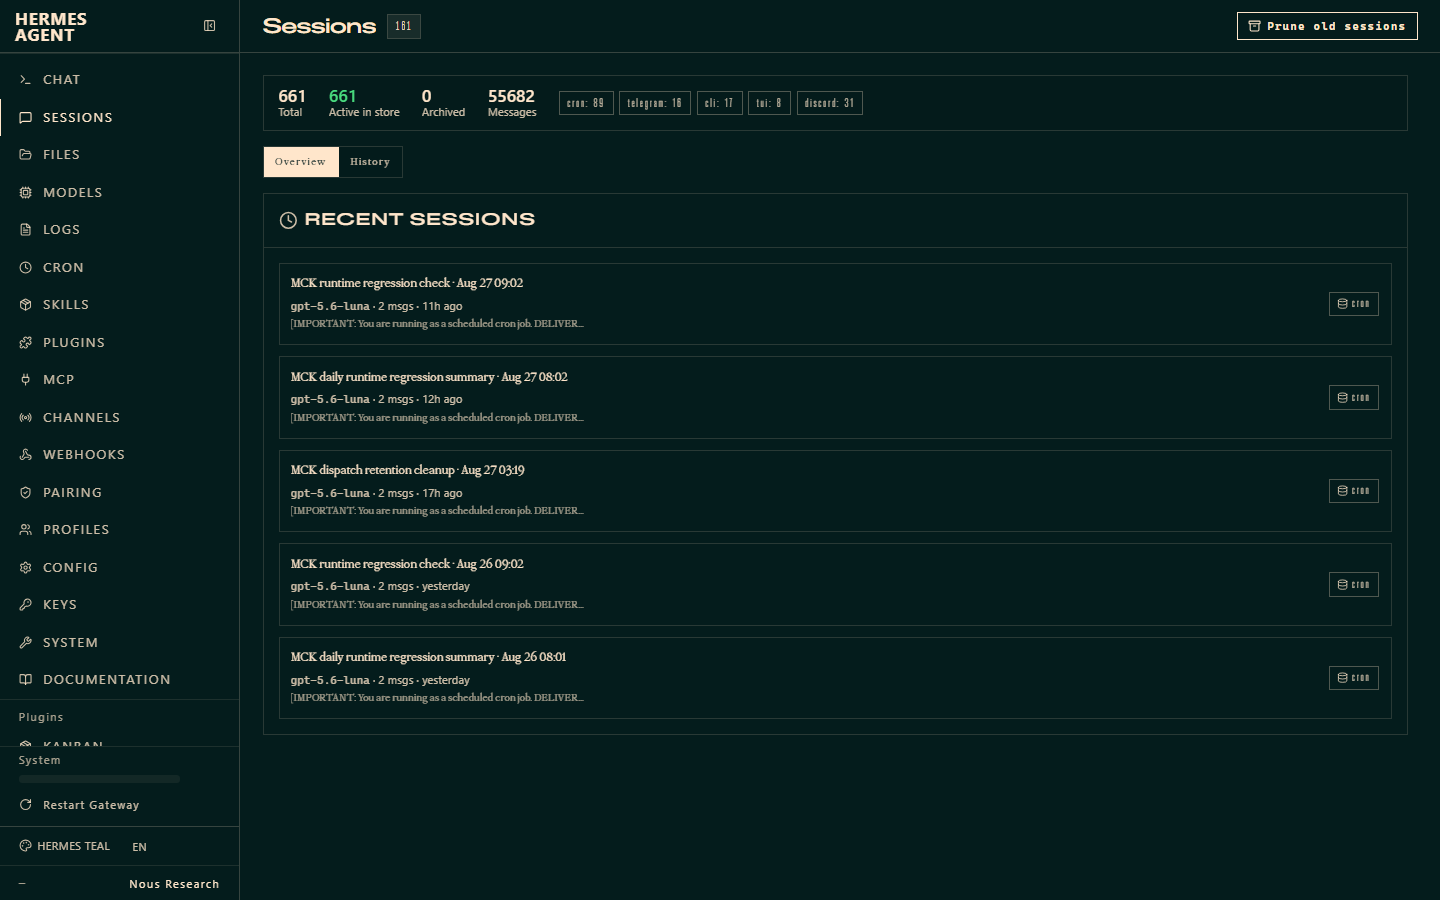
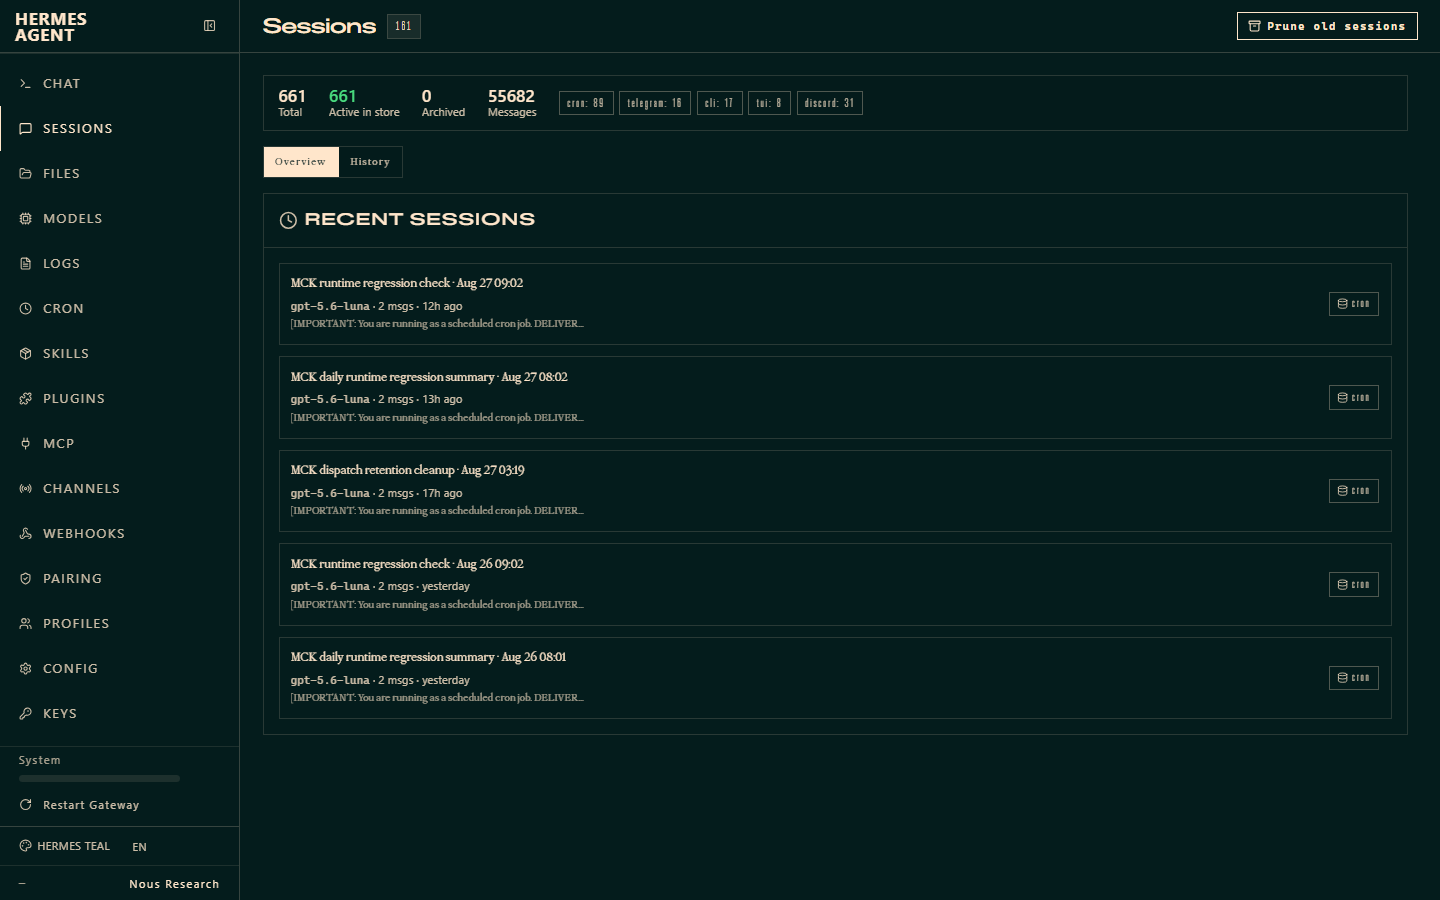
docs(web): restamp :9119 to 3bea4c481 and recapture 15/21
Loopback /api/auth/me 401 is gone. Skills switches and nav floors are live. Still not 19-21 and not Awwwards 8+.

Changed region(s): [[0.0, 0.3733, 0.125, 0.8089], [0.0, 0.1244, 0.0938, 0.3422], [0.0312, 0.0622, 0.0625, 0.0933]]

diff --git a/docs/frontend-sota-gauntlet-2026-08-27/scorecard.md b/docs/frontend-sota-gauntlet-2026-08-27/scorecard.md
@@ -1,12 +1,12 @@
-# Frontend SOTA Gauntlet — Scorecard (hermes-web, system-body recapture)
+# Frontend SOTA Gauntlet — Scorecard (hermes-web, 401 follow-up)
 
 Subject: **hermes-web** (`web/` in `iMelki/hermes-agent`, served at `http://127.0.0.1:9119`)
-Date: 2026-08-27 (system-body recapture)
+Date: 2026-08-27 (loopback `/api/auth/me` skip + hit-target floors)
 Workflow: `frontend-sota-gauntlet` (`agent-settings/shared/prompts/frontend-sota-gauntlet.md`)
-Previous score: **14 / 21** on served `3a0f08fbeb9195217b41afa12be204f1b623bfb1` / `index-57itTrlN.js`.
-Scored served artifact: **`index-3A4qXw6p.js`** (1,972,061 B,
-`sha256:29daf7e3ef4a5c7041f49935a965a2e5e84bc87b5b2d0a8ee23313be3ea9c375`)
-Audited tip: **9faae85d9732a241c8ac67d5e11908bcfd3bd29a**
+Previous score: **15 / 21** on served `9faae85d9732a241c8ac67d5e11908bcfd3bd29a` / `index-3A4qXw6p.js`.
+Scored served artifact: **`index-CAurVnFC.js`** (1,972,319 B,
+`sha256:99c71e0b32af84b36bd21bf93bd01987c828f3cb3d4a430ab7617137e16a1498`)
+Audited tip: **3bea4c4819062f0a7c491a20f6cae13144778422**
 Harness: Playwright 1.59.1, isolated loopback, `waitUntil: commit`, never
 `networkidle`, 1440×900 + 390×844, reduced-motion pair
 Cost: **$0.00**, 0 paid provider calls, 0 generated assets
@@ -22,11 +22,11 @@ stays **no 8+** (6.0 carried / UNSCORABLE for award claims). Do not quote 19–2
 | # | Area | Score | Why |
 |---|---|---:|---|
 | 1 | Visual direction | **2** | Same Hermes Teal / Nous chrome. `h1` still **18.75px** vs body **15px**. Still not memorable at the pixel. |
-| 2 | UX clarity | **3** | `/system` now has an operator-readable body: honest API-failure notice, Retry, credential form, and Operations. Still held by a 17-item flat nav and a 401 on every captured surface. |
-| 3 | Motion / interactivity | **1** | No signature beat. `/sessions` 1440 ran `pulse` (1). Reduced-motion this capture ran `pulse` (1), not `spin`. Skills 1440 still had `spin` with motion allowed. |
-| 4 | Technical quality | **2** | Identity-matched restamp: served JS + disk source/runtime hashes agree. Held by a 401 on all five surfaces. Raw `GET /api/status` is 200 without the SPA session header; the dashboard fetch path still 401s. No auth bypass and no new unauthenticated write tool. |
-| 5 | Responsiveness | **2** | **0px** page overflow at 1440 and 390; mobile restacks. Skills under-24px targets improved **222/251 → 205/250** (category rows now `min-h-[24px]`). Remaining worst cluster is 34×19 unlabeled switches. Nav links still **239×38**. |
-| 6 | Verification | **2** | Browser shots, console, provenance self-test + negative control, before/after digest stability. No repo test suite for the page and no canvas-nonblank proof. |
+| 2 | UX clarity | **3** | `/system` body stays operator-readable. Console 401s are gone on every captured surface. Still a 17-item flat nav. |
+| 3 | Motion / interactivity | **1** | No signature beat. `/sessions` 1440 ran `pulse` (1) with motion allowed. Reduced-motion `/sessions` ran **0** animations (`pulse` gated). |
+| 4 | Technical quality | **2** | Identity-matched restamp: served JS + disk source/runtime hashes agree. SPA 401 was the expected loopback `/api/auth/me` probe, not a missing session header. Headerless `GET /api/status` 200 is the public liveness contract. No auth bypass and no new unauthenticated write tool. `/system` still shows the honest load-failure notice (1046 chars) for non-401 failures. |
+| 5 | Responsiveness | **2** | **0px** page overflow at 1440 and 390. Skills under-24px **205/250 → 3/251** (switches cleared the 24px floor). Nav links **239×38 → 239×45**. Remaining under-24 cluster is chrome: theme 23px, language 23px, Nous footer 15px. |
+| 6 | Verification | **2** | Browser shots, console, 401-path logging, provenance self-test + negative control, before/after digest stability. No repo test suite for the page and no canvas-nonblank proof. |
 | 7 | Complexity fit | **3** | Operator dashboard, honest empty/error state, no GSAP/Canvas/Framer novelty on this cockpit page. |
 
 ---
@@ -36,14 +36,14 @@ stays **no 8+** (6.0 carried / UNSCORABLE for award claims). Do not quote 19–2
 | Surface | Value |
 |---|---|
 | Served URL | `http://127.0.0.1:9119` HTTP **200**, no login redirect |
-| Entry HTML (token-stripped) | `sha256:0279fd0791583562735ec9136e2e0ced3fc20b06c0705956c6a7918205ea0b60` (511 B) |
-| JS | `/assets/index-3A4qXw6p.js` 1,972,061 B `29daf7e3…ea9c375` |
-| CSS | `/assets/index-Dh5-37we.css` 114,327 B `454eb30f…165aa3` |
-| Source `git log -1` | 9faae85d9732a241c8ac67d5e11908bcfd3bd29a |
+| Entry HTML (token-stripped) | `sha256:1bb0c5e2f19937c0f2956a0d950e023070f5a620197736786a378e9ddaa8e6e0` (511 B) |
+| JS | `/assets/index-CAurVnFC.js` 1,972,319 B `99c71e0b…16a1498` |
+| CSS | `/assets/index-BBNSWGzv.css` 114,638 B `ca240640…998ddc` |
+| Source `git log -1` | 3bea4c4819062f0a7c491a20f6cae13144778422 |
 | Runtime checkout | `%LOCALAPPDATA%\Hermes\hermes-agent` detached via `imelki` only |
 | Disk `web_dist` JS | **byte-identical** to served |
 | `/api/status` | HTTP **200** without SPA session header, `version` 0.18.2 (no git SHA field) |
-| `/health` | SPA fallback HTML **200**, same `index-3A4qXw6p.js` |
+| `/health` | SPA fallback HTML **200**, same `index-CAurVnFC.js` |
 
 The launcher session token was stripped before hashing. No new operator login
 was required (`sessionTokenStripped: true`). NousResearch `origin` on the
@@ -55,22 +55,37 @@ runtime checkout was **not** fetched, pushed, or mutated.
 
 | Shot | Route | Viewport | Settled | h1 | Overflow | under24 | Console |
 |---|---|---|---|---|---:|---:|---|
-| `shots/sessions-1440.png` | `/sessions` | 1440×900 | yes | Sessions 18.75px | 0 | 3/27 | 401 |
-| `shots/skills-1440.png` | `/skills` | 1440×900 | yes | Skills 18.75px | 0 | 205/250 | 401 |
-| `shots/system-1440.png` | `/system` | 1440×900 | yes | System 18.75px | 0 | 4/43 | 401 |
-| `shots/sessions-390.png` | `/sessions` | 390×844 | yes | Sessions 18.75px | 0 | 3/28 | 401 |
-| `shots/sessions-1440-rm.png` | `/sessions` | 1440×900 RM | yes | Sessions 18.75px | 0 | 3/27 | 401 |
+| `shots/sessions-1440.png` | `/sessions` | 1440×900 | yes | Sessions 18.75px | 0 | 3/27 | none |
+| `shots/skills-1440.png` | `/skills` | 1440×900 | yes | Skills 18.75px | 0 | 3/251 | none |
+| `shots/system-1440.png` | `/system` | 1440×900 | yes | System 18.75px | 0 | 4/43 | none |
+| `shots/sessions-390.png` | `/sessions` | 390×844 | yes | Sessions 18.75px | 0 | 3/28 | none |
+| `shots/sessions-1440-rm.png` | `/sessions` | 1440×900 RM | yes | Sessions 18.75px | 0 | 3/27 | none |
 
-`/system` body is no longer blank: **1046** text chars (was **199** chrome-only).
-The shot shows the honest failure notice plus Operations. It does **not** invent
-host or gateway numbers.
+`/system` body remains **1046** text chars: honest failure notice plus Operations.
+It does **not** invent host or gateway numbers. Those remaining failures are
+not the loopback session-token 401.
+
+---
+
+## 401 research (fixed, not parked)
+
+Headerless `GET /api/status` 200 is **by design** (`PUBLIC_API_PATHS`).
+Protected APIs (`/api/sessions`, `/api/skills`, `/api/system/stats`) return
+**200** with the documented `X-Hermes-Session-Token` from
+`window.__HERMES_SESSION_TOKEN__`, and **401** without it. `/api/auth/me`
+returns **401 even with a valid loopback token** because there is no OAuth
+`request.state.session`. AuthWidget was calling that probe on every route.
+
+Fix: skip `getAuthMe()` when `window.__HERMES_AUTH_REQUIRED__` is not true.
+That is the documented injected flag. No password typed. No cookie bypass.
+No unauthenticated write tool.
 
 ---
 
 ## What this does and does not unlock
 
-**Unlocked.** `:9119` is attributable to `index-3A4qXw6p.js`. `/system` has a
-real operator-readable body.
+**Unlocked.** `:9119` is attributable to `index-CAurVnFC.js`. Console 401s are
+gone. Skills switch floor and nav 44px+ are live.
 
 **Not unlocked.** 15/21 is still the usable band. Do not quote 19–21/21. Do not
 quote Awwwards 8+.
@@ -81,10 +96,8 @@ quote Awwwards 8+.
 
 Tracked on [iMelki/hermes#45](https://github.com/iMelki/hermes/issues/45):
 
-1. Recurring 401 on the already-authenticated dashboard (next defect). Raw
-   `/api/status` 200 ≠ SPA session fetch. Do not add an unauthenticated write
-   tool or type passwords to “fix” it.
-2. Skills switch hit targets (34×19 unlabeled buttons; 205/250 still under 24px).
-3. Reduced-motion still ran `pulse` on `/sessions`. `spin` did not appear on
-   this RM pass.
-4. Nav link height 38px.
+1. Chrome under-24px leftovers: theme 23px, language 23px, Nous footer 15px.
+2. `/system` still shows the honest load-failure notice after the 401 fix
+   (non-401 failures / timeouts; do not invent stats).
+3. `/sessions` still runs `pulse` when motion is allowed (live badge).
+4. Visual hierarchy still 18.75px `h1` vs 15px body.

diff --git a/docs/frontend-sota-gauntlet-2026-08-27/verification.md b/docs/frontend-sota-gauntlet-2026-08-27/verification.md
@@ -1,4 +1,4 @@
-# Verification — hermes-web gauntlet system-body recapture 2026-08-27
+# Verification — hermes-web gauntlet 401 follow-up 2026-08-27
 
 ## Restamp path used
 
@@ -6,26 +6,43 @@ Documented serve path (no dedicated restamp script; no ops pin file present):
 
 1. Build source `web/` with `NODE_OPTIONS=--use-system-ca npm run build`
    → `hermes_cli/web_dist` (`web/README.md`, `vite.config.ts` `outDir`).
-2. Recycle old runtime JS (`index-57itTrlN.js`, then the intermediate
-   `index-BCIj-9Xe.js`); copy new `web_dist` into
+2. Copy new `web_dist` into
    `%LOCALAPPDATA%\Hermes\hermes-agent\hermes_cli\web_dist`.
-3. Local-only `git fetch imelki` + `git switch --detach <SHA>` on the runtime
-   checkout. **Did not fetch or push `origin` (NousResearch).**
-4. Stop the :9119 `HermesDashboardLauncher.pyw` listener.
-5. Windowless start:
+3. Local-only `git fetch imelki` + `git switch --detach 3bea4c481` on the runtime
+   checkout. **Did not fetch or push `origin` (NousResearch).** Runtime
+   `package-lock.json` dirt was left untouched.
+4. Stop the previous :9119 listener, then windowless start:
    `S:\source\CCAI\Assistants\hermes\scripts\windows\Start-HermesNativeDashboard.ps1 -Json`
-   → `action=started serving=true http=200 pid=71796`.
+   → `action=started serving=true http=200 pid=109316`.
 
 ## Attribution proof
 
 ```text
-GET /               200  SERVED_JS=/assets/index-3A4qXw6p.js
-GET JS              200  1972061 B  sha256:29daf7e3ef4a5c7041f49935a965a2e5e84bc87b5b2d0a8ee23313be3ea9c375
+GET /               200  SERVED_JS=/assets/index-CAurVnFC.js
+GET JS              200  1972319 B  sha256:99c71e0b32af84b36bd21bf93bd01987c828f3cb3d4a430ab7617137e16a1498
 disk source JS      same hash
 disk runtime JS     same hash
+source HEAD         3bea4c4819062f0a7c491a20f6cae13144778422
+runtime HEAD        3bea4c4819062f0a7c491a20f6cae13144778422
 GET /api/status     200  version 0.18.2 (no git SHA field; no SPA session header)
-GET /health         200  SPA HTML with index-3A4qXw6p.js
 ```
+
+## 401 research
+
+```text
+bare GET /api/status              200   public liveness path
+bare GET /api/sessions            401   gated, as designed
+bare GET /api/auth/me             401   gated, as designed
+token GET /api/sessions           200   documented X-Hermes-Session-Token
+token GET /api/skills             200
+token GET /api/system/stats       200
+token GET /api/auth/me            401   no OAuth session on loopback
+```
+
+SPA already sent `credentials: include` and `X-Hermes-Session-Token`.
+The recurring console 401 was AuthWidget probing `/api/auth/me` on every
+route. Loopback skip uses `__HERMES_AUTH_REQUIRED__`. Not parked. Not a
+login bypass.
 
 ## Gauntlet commands
 
@@ -33,7 +50,13 @@ GET /health         200  SPA HTML with index-3A4qXw6p.js
 node docs/frontend-sota-gauntlet-2026-08-27/gauntlet.mjs
   EXIT=0
   WROTE gauntlet.json
+  capturedAt 2026-08-27T18:15:33.466Z
   total 15/21 (scored from receipt + shots; not auto-awarded)
+  sessions-1440   err=0  u24=3/27   nav=239x45  anim=pulse
+  skills-1440     err=0  u24=3/251  nav=239x45  anim=0
+  system-1440     err=0  u24=4/43   anim=pulse
+  sessions-390    err=0  u24=3/28
+  sessions-1440-rm err=0 u24=3/27   anim=0
 ```
 
 ## Recipe
@@ -44,24 +67,9 @@ node docs/frontend-sota-gauntlet-2026-08-27/gauntlet.mjs
 - One reduced-motion context (`prefers-reduced-motion: reduce`).
 - Provenance gate before the browser and again after. Entry digest stable.
 
-## /system body
-
-Was chrome-only (**199** chars, full-page spinner hung on 401). Now **1046**
-chars: honest “System details did not load” notice, failed-API chips, Retry,
-credential form, Operations. No invented host/gateway numbers.
-
-Root cause: `fetchJSON` can return a never-resolving promise on loopback 401,
-so `Promise.allSettled` never finished. Fix: `settleWithTimeout` plus no
-full-page spinner gate.
-
-## 401 (not fixed)
-
-Every captured surface still logs a 401. A headerless `GET /api/status` is
-200. The SPA session-token path is a different contract. No password was
-typed. No unauthenticated write tool was added.
-
 ## Not claimed
 
 - No 19–21/21.
 - No Awwwards 8+.
 - No NousResearch push or upstream mutation.
+- No password typed. No unauthenticated write tool.

diff --git a/docs/frontend-sota-gauntlet-2026-08-27/hermes-45-update.md b/docs/frontend-sota-gauntlet-2026-08-27/hermes-45-update.md
@@ -1,14 +1,14 @@
-## System body + gauntlet recapture (2026-08-27)
+## Loopback 401 research + gauntlet recapture (2026-08-27)
 
-hermes-web-system-body-15-21
+hermes-web-401-followup-15-21
 
[2 lines of base64/hex data omitted]
 
-- Source SHA: `9faae85d9732a241c8ac67d5e11908bcfd3bd29a`.
-- `/system` now has a body: honest “System details did not load” notice (401/timeout, no invented stats), Retry, credential form, Operations. Text chars **199 → 1046**.
-- Skills under-24px **222/251 → 205/250**. Category rows meet 24px. Remaining worst cluster is 34×19 switches.
-- Reduced-motion: `spin` did not run; `pulse` still did.
-- Recurring 401 on every captured surface is **not** fixed. Headerless `GET /api/status` is 200; the SPA session fetch is not. No password typed. No unauthenticated write tool added.
+- Source SHA: `3bea4c4819062f0a7c491a20f6cae13144778422`.
+- 401 **fixed**, not parked. Headerless `GET /api/status` 200 is the public liveness path. Protected APIs already succeed with the documented `X-Hermes-Session-Token`. The recurring console 401 was AuthWidget calling `/api/auth/me`, which 401s on loopback even with a valid session token (no OAuth session). The SPA now skips that probe when `__HERMES_AUTH_REQUIRED__` is false. No password typed. No unauthenticated write tool added.
+- Skills under-24px **205/250 → 3/251**. Switches meet the 24px floor. Nav links **239×38 → 239×45**.
+- Reduced-motion `/sessions`: **0** animations (`pulse` gated). Motion-allowed `/sessions` can still `pulse` on a live badge.
+- `/system` body stays the honest failure notice (1046 chars). Those remaining failures are not the session-token 401.
 - Score **15/21**: Visual 2, UX 3, Motion 1, Technical 2, Responsiveness 2, Verification 2, Complexity fit 3.
 
 Receipts:
@@ -17,6 +17,6 @@ Receipts:
 - `docs/frontend-sota-gauntlet-2026-08-27/verification.md`
 - `docs/frontend-sota-gauntlet-2026-08-27/gauntlet.json`
 
-Marker: `served SHA 9faae85d9732a241c8ac67d5e11908bcfd3bd29a / 15/21 / no Awwwards 8+`
+Marker: `served SHA 3bea4c4819062f0a7c491a20f6cae13144778422 / 15/21 / no Awwwards 8+`
 
-Next defect: recurring 401 on every surface (SPA session vs loopback). Then Skills 34×19 switches, RM `pulse`, nav height 38px.
+Next defect: leftover chrome under 24px (theme 23px, language 23px, Nous footer 15px), then `/system` non-401 load failures.
